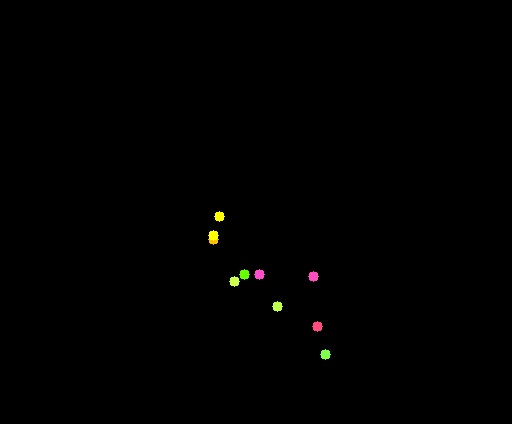
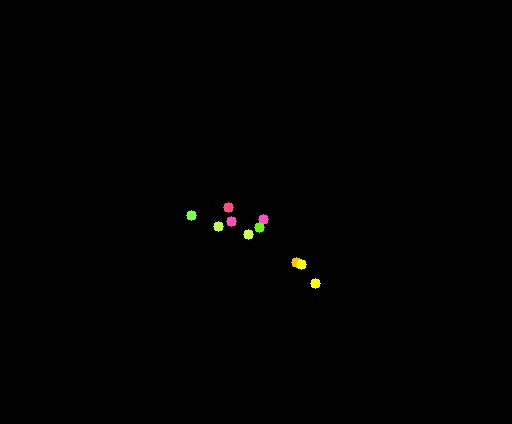
处理骨架点昌盛需要的数据

diff --git a/AlphaPose/draw_skeleton.py b/AlphaPose/draw_skeleton.py
@@ -16,7 +16,7 @@ import numpy as np
 
 def Draw_body(cor_x, cor_y, dir_name):
         
-    img_ori = cv2.imread('/home/hts/Desktop/kinect_pic/a/aaa/0002_color.jpg')
+    img_ori = cv2.imread('/home/hts/Desktop/kinect_pic/b/aaa/0008_color.jpg')
     sp = img_ori.shape
     print(sp)
     img = np.zeros((sp[0], sp[1]), dtype=np.uint8)
@@ -51,7 +51,7 @@ def Draw_body(cor_x, cor_y, dir_name):
 
     
     # Draw keypoints
-    for n in range(10):
+    for n in range(3):
         part_line[n] = (int(cor_x[n]), int(cor_y[n]))
         #bg = img.copy()
         cv2.circle(img, (int(cor_x[n]), int(cor_y[n])), 5, p_color[n], -1)
@@ -74,9 +74,10 @@ def Draw_body(cor_x, cor_y, dir_name):
     cv2.imwrite(dir_name, img)
 
 if __name__ == '__main__':
-    temp = [325.0851135253906, 354.8621826171875, 0.6322734951972961, 277.11724853515625, 306.894287109375, 0.8115265965461731, 234.90553283691406, 281.9510192871094, 0.6867309808731079, 259.8488464355469, 274.2761535644531, 0.7372114062309265, 313.57281494140625, 276.19488525390625, 0.8209307789802551, 317.4102478027344, 326.0814208984375, 0.7046723365783691, 244.4990997314453, 274.2761535644531, 0.7050938010215759, 213.79966735839844, 239.7393035888672, 0.7159721255302429, 213.79966735839844, 235.90187072753906, 0.6610541343688965, 219.55581665039062, 216.7147216796875, 0.3590053617954254, 194.61253356933594, 287.7071533203125, 0.8780078887939453, 188.8563995361328, 268.52001953125, 0.7865536212921143, 194.61253356933594, 243.57672119140625, 0.7317582964897156, 232.98681640625, 237.82057189941406, 0.6932752132415771, 263.686279296875, 251.25157165527344, 0.8039182424545288, 292.46697998046875, 249.33287048339844, 0.8424583077430725]
+    temp = [191.4891815185547, 215.0364227294922, 0.4517185091972351, 218.52777099609375, 226.16993713378906, 0.5216860771179199, 248.7473602294922, 234.1224822998047, 0.36508888006210327, 263.0619201660156, 219.8079376220703, 0.45060425996780396, 231.25181579589844, 221.3984375, 0.3167969882488251, 228.07080078125, 207.08389282226562, 0.34528136253356934, 259.88092041015625, 227.7604522705078, 0.7379199862480164, 296.4625244140625, 262.7515869140625, 0.6079698204994202, 301.23406982421875, 264.34210205078125, 0.5761451125144958, 315.548583984375, 283.42816162109375, 0.5628469586372375, 234.4328155517578, 254.79905700683594, 0.6901631355285645, 251.9283905029297, 265.9325866699219, 0.502133309841156, 271.01446533203125, 273.8851318359375, 0.5307292342185974, 313.95806884765625, 242.0749969482422, 0.6545906662940979, 315.548583984375, 221.3984375, 0.969918429851532, 344.17767333984375, 240.4844970703125, 0.4010535776615143]
     cor_x, cor_y = [], []
-    pick_points = [0,1,2,3,4,5,6,7,8,9]
+    #pick_points = [0,1,2,3,4,5,6,7,8,9]
+    pick_points = [6,12,13]
     for j in range(16):
         if j in pick_points:
             cor_x.append(float(temp[j*3]))

diff --git a/AlphaPose/process_kp copy.py b/AlphaPose/process_kp copy.py
@@ -69,7 +69,7 @@ class process_date:
         self.folder_path  = folder_path
         self.write_path = write_path
         # self.key_points = [3,4,6,7,9,10,12,13,18,19,24,25,27,28,33,34,36,37,39,40,42,43]
-        self.key_points = [0,1,3,4,6,7,9,10,12,13,15,16,18,19,21,22,24,25,27,28,36,37,39,40]
+        self.key_points = [18,19,36,37,39,40]
         labels = os.listdir(self.folder_path) #label = a
         for self.label in labels: 
             #/home/hts/Videos/202003result_mpii/a
@@ -81,7 +81,7 @@ class process_date:
             # print(names)
             for self.name in names:
                 #/home/hts/Videos/202003result_mpii/a/aaa/alphapose-results-forvis-tracked.json
-                self.json_path = self.folder_dir + '/' + self.name + '/alphapose-results-forvis-tracked.json'
+                self.json_path = self.folder_dir + '/' + self.name + '/alphapose-results_.json'
                 self.output()
 
 
@@ -93,7 +93,7 @@ class process_date:
             pic = fileJson[key]
             print('\033[0;32m person number in pic: %d \033[0m' %len(pic))
             suc_detect = False
-            self.pose_keypoints_2d = np.zeros((1,24),dtype = float)
+            self.pose_keypoints_2d = np.zeros((1,14),dtype = float)
             my_counter = 0
             for person in pic :
                 if my_counter == 0:
@@ -106,7 +106,7 @@ class process_date:
                         suc_detect = True
                         for index in range(len(keypoints)):
                             # print (index)
-                            if index in self.key_points: #只保留需要的点
+                            if index in self.key_points: #去掉概率
                                 my_kp.append(keypoints[index])
                                 # print(index)
                         self.pose_keypoints_2d = np.insert(self.pose_keypoints_2d, 0, my_kp, axis=0)
@@ -119,7 +119,7 @@ class process_date:
                             for index in range(len(self.pose_keypoints_2d[p])):
                                 file.write(str(self.pose_keypoints_2d[p][index]))
                                 file.write('\n')
-                            file.write(self.name +'\n'+ self.label + '\n'+ key + '\n')
+                            file.write(self.name + self.label + '\n')
                 file.close()
 
                 
